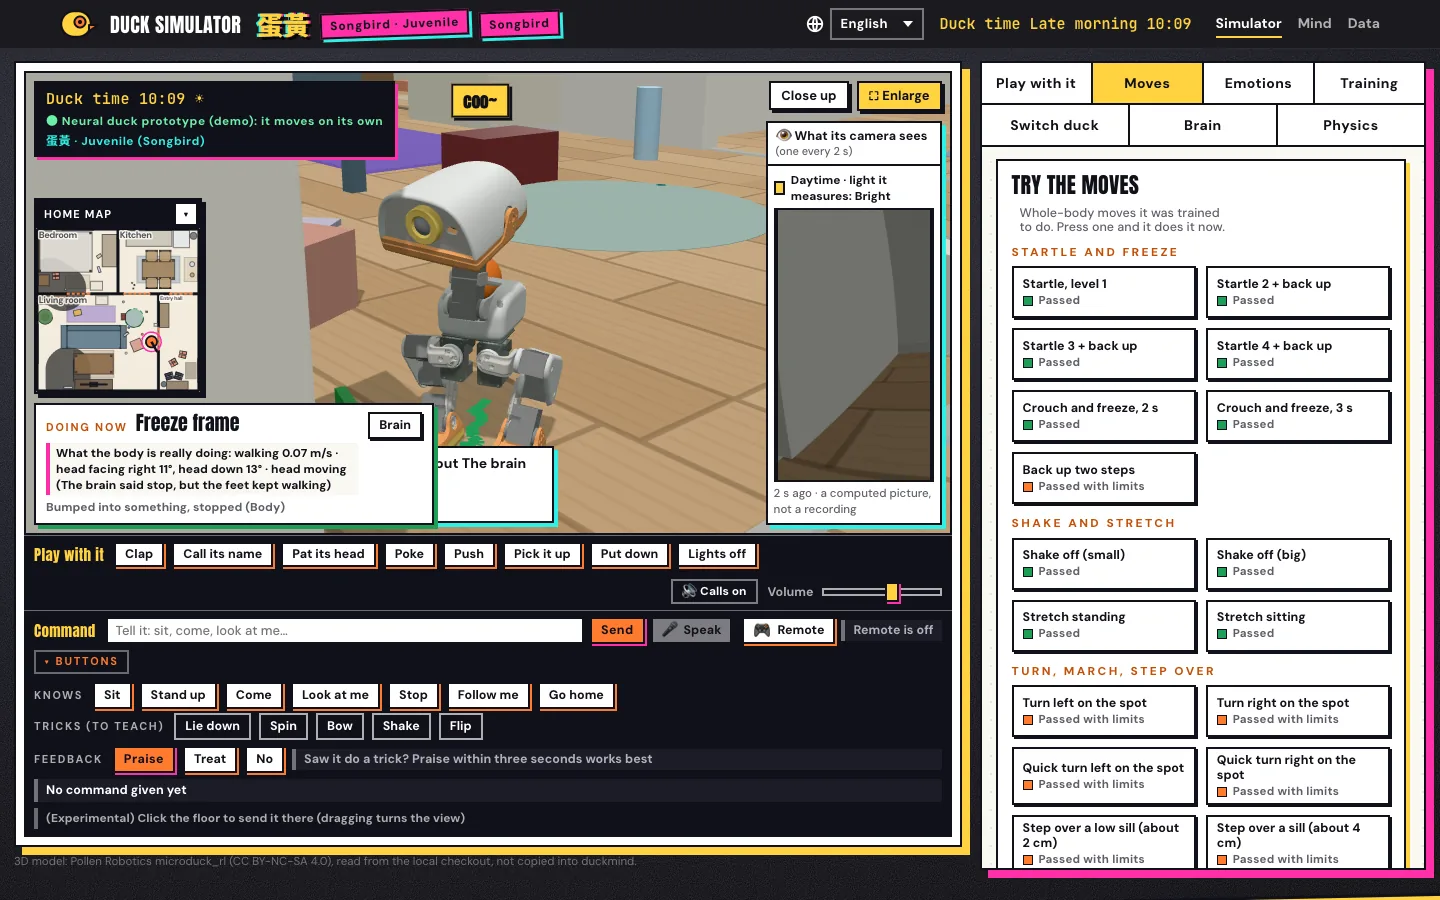
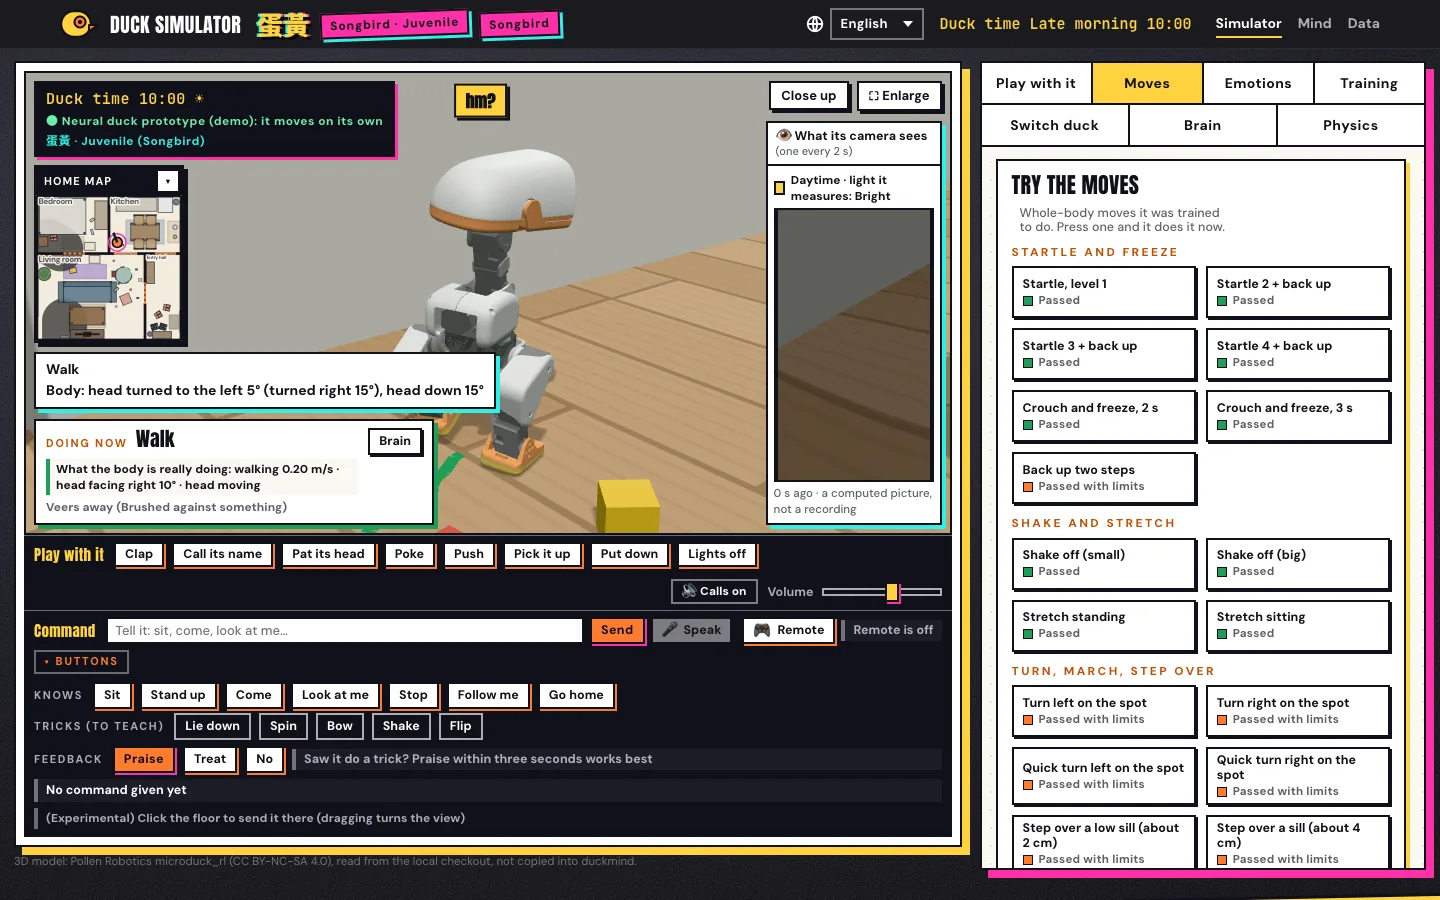
page: the stage can no longer slide sideways after a tab click; the duck's words stand above the doing-now card; screenshots retaken

diff --git a/src/duckmind/simweb/static/duck3d.js b/src/duckmind/simweb/static/duck3d.js
@@ -125,6 +125,7 @@ const note = document.getElementById("duck3dNote");
 const bubbleEl = document.getElementById("duck3dBubble");
 const fxEl = document.getElementById("duck3dFx");
 const captionEl = document.getElementById("duck3dCaption");
+const hudEl = document.getElementById("hud");
 const zzzEl = document.getElementById("duck3dZzz");
 const modeEl = document.getElementById("stageMode");
 
@@ -537,8 +538,11 @@ async function init() {
     const rect = canvas.getBoundingClientRect();
     const boxRect = box.getBoundingClientRect();
     if (captionEl) {
-      // Words go over the floor at the bottom left, never over the duck's head.
-      captionEl.style.top = `${Math.max(8, rect.bottom - boxRect.top - captionEl.offsetHeight - 10)}px`;
+      // Words go over the floor at the bottom left, never over the duck's head; the HUD (現在在做) holds that corner
+      // too, so while it is shown the words stand just above it, never under it.
+      let floorTop = rect.bottom - boxRect.top;
+      if (hudEl && !hudEl.hidden && hudEl.getClientRects().length) floorTop = Math.min(floorTop, hudEl.getBoundingClientRect().top - boxRect.top);
+      captionEl.style.top = `${Math.max(8, floorTop - captionEl.offsetHeight - 10)}px`;
     }
     if (modeEl && !modeEl.hidden) {
       // Which duck is drawn: just under the clock.

diff --git a/src/duckmind/simweb/static/style.css b/src/duckmind/simweb/static/style.css
@@ -235,8 +235,10 @@ input[type="checkbox"] { accent-color: var(--orange); width: 16px; height: 16px;
 .card-title small { font-size: 12.5px; }
 
 /* ---------- hero: the duck on stage ---------- */
+/* overflow: clip, not hidden — the static's ::before reaches 240 px past every edge, and a hidden overflow is still a
+   scroll container: any scroll into view (a focus, an automated click, find in page) slid the whole view sideways. */
 .hero {
-  position: relative; overflow: hidden; isolation: isolate;
+  position: relative; overflow: hidden; overflow: clip; isolation: isolate;
   padding: 30px var(--gutter) 72px;
   background: radial-gradient(120% 90% at 30% 20%, #2a2a36 0%, var(--ink) 58%, var(--ink-deep) 100%);
   color: var(--on-dark);
